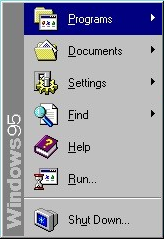
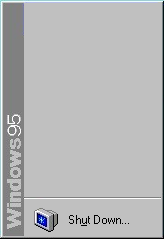
Coded Some Functions

diff --git a/main.js b/main.js
@@ -1,15 +1,72 @@
-var startmenu = document.getElementById("menu")
 var startupsound = document.getElementById("startup")
 
 function togglestartmenu(){
+    var startmenu = document.getElementById("menuid")
+    var documentbutton = document.getElementById("documentbuttonid")
+    var systembutton = document.getElementById("systembuttonid")
+    var programbutton = document.getElementById("programbuttonid")
+
     if (startmenu.style.display == "none"){
         startmenu.style.display = "block";
+        programbutton.style.display = "block";
+        documentbutton.style.display = "block";
+        systembutton.style.display = "block";
     }
     
     else{
         startmenu.style.display = "none";
+        programbutton.style.display = "none";
+        documentbutton.style.display = "none";
+        systembutton.style.display = "none";
     }
 }
+
+function programbuttonfunc(){
+    var programfolder = document.getElementById("programfolderid")
+    var programfolderx = document.getElementById("programfolderxid")
+    programfolder.style.display = "block";
+    programfolderx.style.display = "block";
+}
+
+function documentbuttonfunc(){
+    var documentfolderx = document.getElementById("documentfolderxid")
+    var documentfolder = document.getElementById("documentfolderid")
+    documentfolder.style.display = "block";
+    documentfolderx.style.display = "block";
+}
+
+function systempagefunc(){
+    var systempage = document.getElementById("systempageid")
+    var systempagex = document.getElementById("systempagexid")
+    var systempageok = document.getElementById("systempageokid")
+    systempageok.style.display = "block";
+    systempagex.style.display = "block";
+    systempage.style.display = "block";
+}
+
+function quitprogrambuttonfunc(){
+    var programfolder = document.getElementById("programfolderid")
+    var programfolderx = document.getElementById("programfolderxid")
+    programfolder.style.display = "none";
+    programfolderx.style.display = "none";
+}
+
+function quitdocumentbuttonfunc(){
+    var documentfolderx = document.getElementById("documentfolderxid")
+    var documentfolder = document.getElementById("documentfolderid")
+    documentfolder.style.display = "none";
+    documentfolderx.style.display = "none";
+}
+
+function quitsystempagefunc(){
+    var systempage = document.getElementById("systempageid")
+    var systempagex = document.getElementById("systempagexid")
+    var systempageok = document.getElementById("systempageokid")
+    systempageok.style.display = "none";
+    systempagex.style.display = "none";
+    systempage.style.display = "none";
+}
+
 
 window.onload = function(){
     document.getElementById("startup").play()

diff --git a/index.html b/index.html
@@ -6,6 +6,7 @@
     <meta name="viewport" content="width=device-width, initial-scale=1.0">
     <title>Thach's Den</title>
     <link rel="stylesheet" href="style.css">
+    <link rel="icon" type="image/x-icon" href="/assets/favicon.ico">
     <audio preload="auto" id="startup">
         <source src="/assets/startup.mp3">
     </audio>
@@ -22,7 +23,21 @@
     <body class="bodyimage">
         <img class="taskbar" src="/assets/bottom.png" alt="">
         <input type="image" src="/assets/StartButton.png" class="startbutton" onclick="togglestartmenu()"/>
-        <img class="startmenu" id="menu" src="/assets/StartMenu.png" alt="">
+        <tr>
+            <img class="startmenu" id="menuid" src="/assets/StartMenu.png" alt="">
+            <input type="image" id="programbuttonid" src="/assets/StartmenuProgramFolder.png" onclick="programbuttonfunc()" class="programbutton"/>
+            <input type="image" id="documentbuttonid" src="/assets/StartmenuDocuments.png" onclick="documentbuttonfunc()" class="documentbutton"/>
+            <input type="image" id="systembuttonid" src="/assets/StartmenuSystem.png" onclick="systempagefunc()" class="systembutton"/>
+        </tr>
+        <center>
+            <img class="programfolder" id="programfolderid" src="/assets/ProgramsFolder.png" alt="">
+            <input type="image" class="programfolderx" id="programfolderxid" src="/assets/SystemXButton.png" onclick="quitprogrambuttonfunc()" alt="">
+            <img class="documentfolder" id="documentfolderid" src="/assets/DocumentFolder.png" alt="">
+            <input type="image" class="documentfolderx" id="documentfolderxid" src="/assets/SystemXButton.png" onclick="quitdocumentbuttonfunc()" alt="">
+            <img class="systempage" id="systempageid" src="/assets/System.png" alt="">
+            <input type="image" class="systempagex" id="systempagexid" src="/assets/SystemXButton.png" onclick="quitsystempagefunc()" alt="">
+            <input type="image" class="systempageok" id="systempageokid" src="/assets/SystemOkButton.png" onclick="quitsystempagefunc()" alt="">
+         </center>
         <script src="main.js" type="text/javascript"></script>
     </body>
 </html>

diff --git a/style.css b/style.css
@@ -10,9 +10,10 @@
 .taskbar{
     position:fixed;
     width: 100%;
-    z-index: 0;
+    z-index: 2;
     bottom: 0%;
     left: 0%;
+    opacity: 80%;
 }
 
 .bin{
@@ -28,7 +29,7 @@
     margin: 0px 0px 3px 2px;
     position:fixed;
     width: 3.8%;
-    z-index: 0;
+    z-index: 3;
     bottom: 0%;
     left: 0%;
 }
@@ -37,8 +38,107 @@
     margin: 0px 0px 29px 0px;
     position:fixed;
     width:13.5%;
-    z-index: 0;
+    z-index: 4;
     bottom: 0%;
     left: 0%;
     display: none;
+}
+
+.programbutton{
+    margin: 0px 0px 290px 32px;
+    position:fixed;
+    width:10.8%;
+    z-index: 4;
+    bottom: 0%;
+    left: 0%;
+    display: none;
+}
+
+.documentbutton{
+    margin: 0px 0px 245px 32px;
+    position:fixed;
+    width:10.8%;
+    z-index: 4;
+    bottom: 0%;
+    left: 0%;
+    display: none;
+}
+
+.systembutton{
+    margin: 0px 0px 195px 32px;
+    position:fixed;
+    width:10.8%;
+    z-index: 4;
+    bottom: 0%;
+    left: 0%;
+    display: none;
+}
+
+.programfolder{
+    top: 18%;
+    left: 35%;
+    position:absolute;
+    width: 30%;
+    z-index: 1;
+    display: none;
+    opacity: 90%;
+}
+
+.documentfolder{
+    top: 18%;
+    left: 35%;
+    position:absolute;
+    width: 30%;
+    z-index: 1;
+    display: none;
+    opacity: 90%;
+}
+.systempage{
+    display: none;
+    top: 18%;
+    left: 35%;
+    position:absolute;
+    width: 30%;
+    z-index: 1;
+    opacity: 90%;
+}
+
+.systempagex{
+    display: none;
+    top: 18.8%;
+    left: 63.45%;
+    position:absolute;
+    width: 1.15%;
+    z-index: 1;
+    opacity: 90%;
+}
+
+.systempageok{
+    display: none;
+    top: 80.3%;
+    left: 52.9%;
+    position:absolute;
+    width: 5.5%;
+    z-index: 1;
+    opacity: 90%;
+}
+
+.programfolderx{
+    display: none;
+    top: 18.9%;
+    left: 63.45%;
+    position:absolute;
+    width: 1.15%;
+    z-index: 1;
+    opacity: 90%;
+}
+
+.documentfolderx{
+    display: none;
+    top: 18.9%;
+    left: 63.45%;
+    position:absolute;
+    width: 1.15%;
+    z-index: 1;
+    opacity: 90%;
 }
